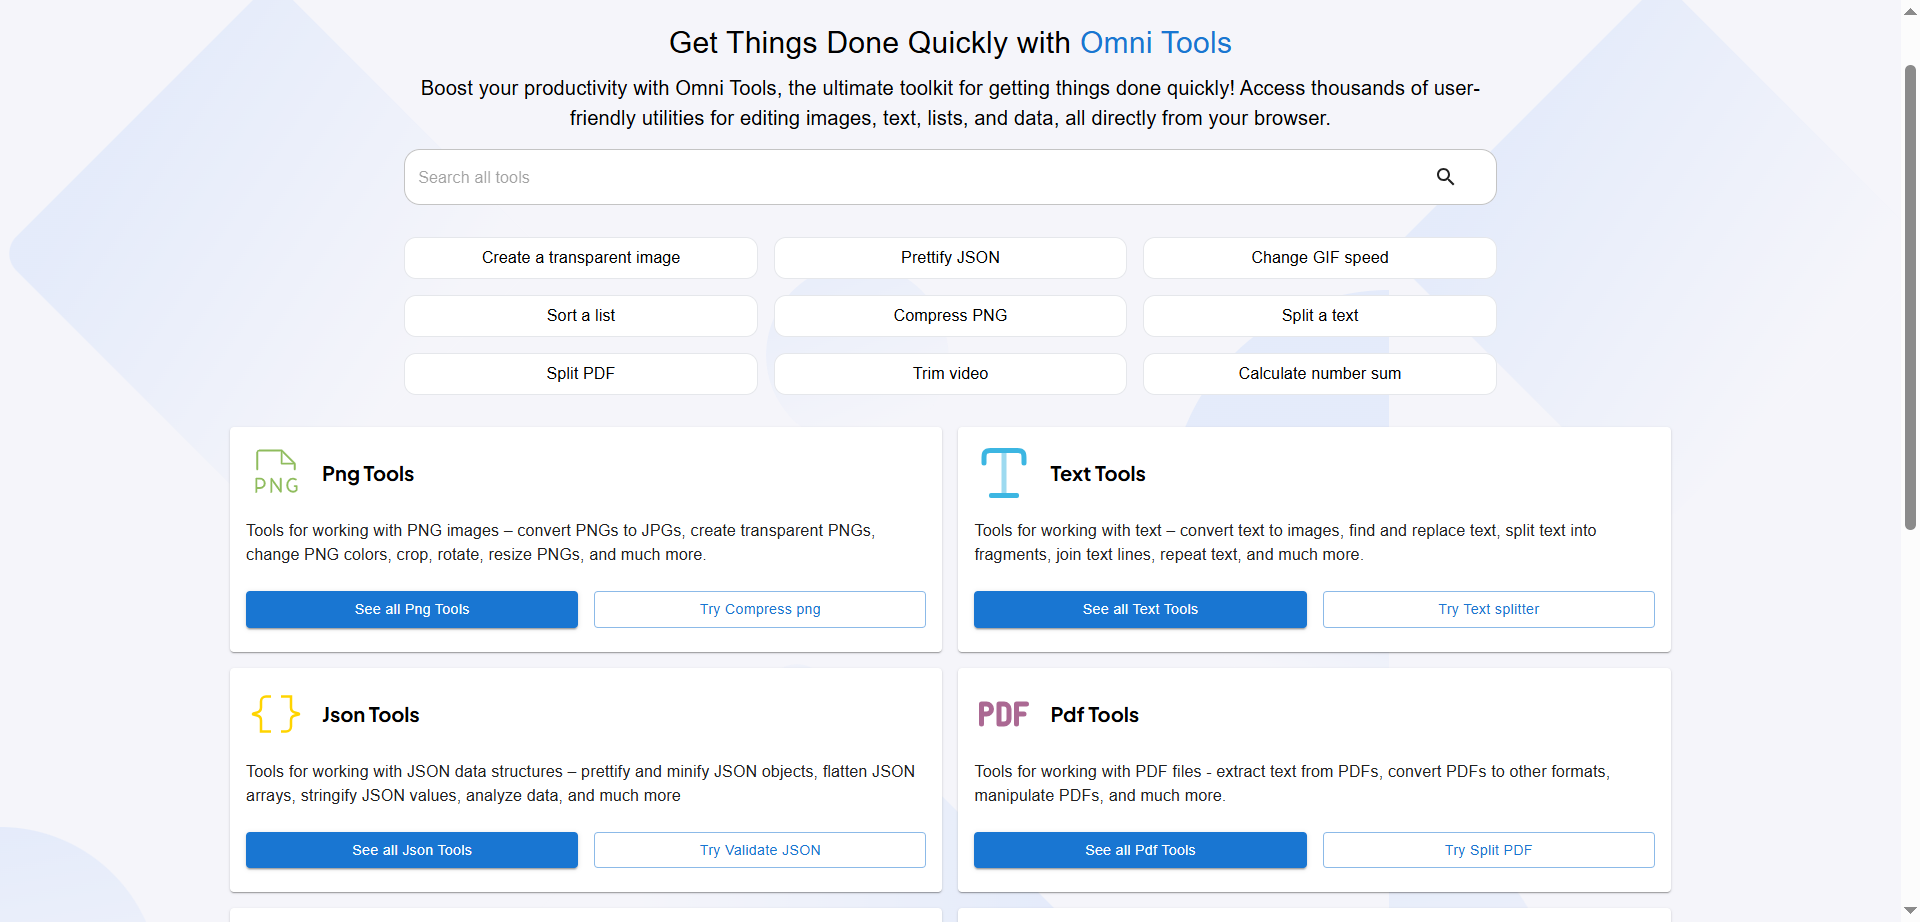
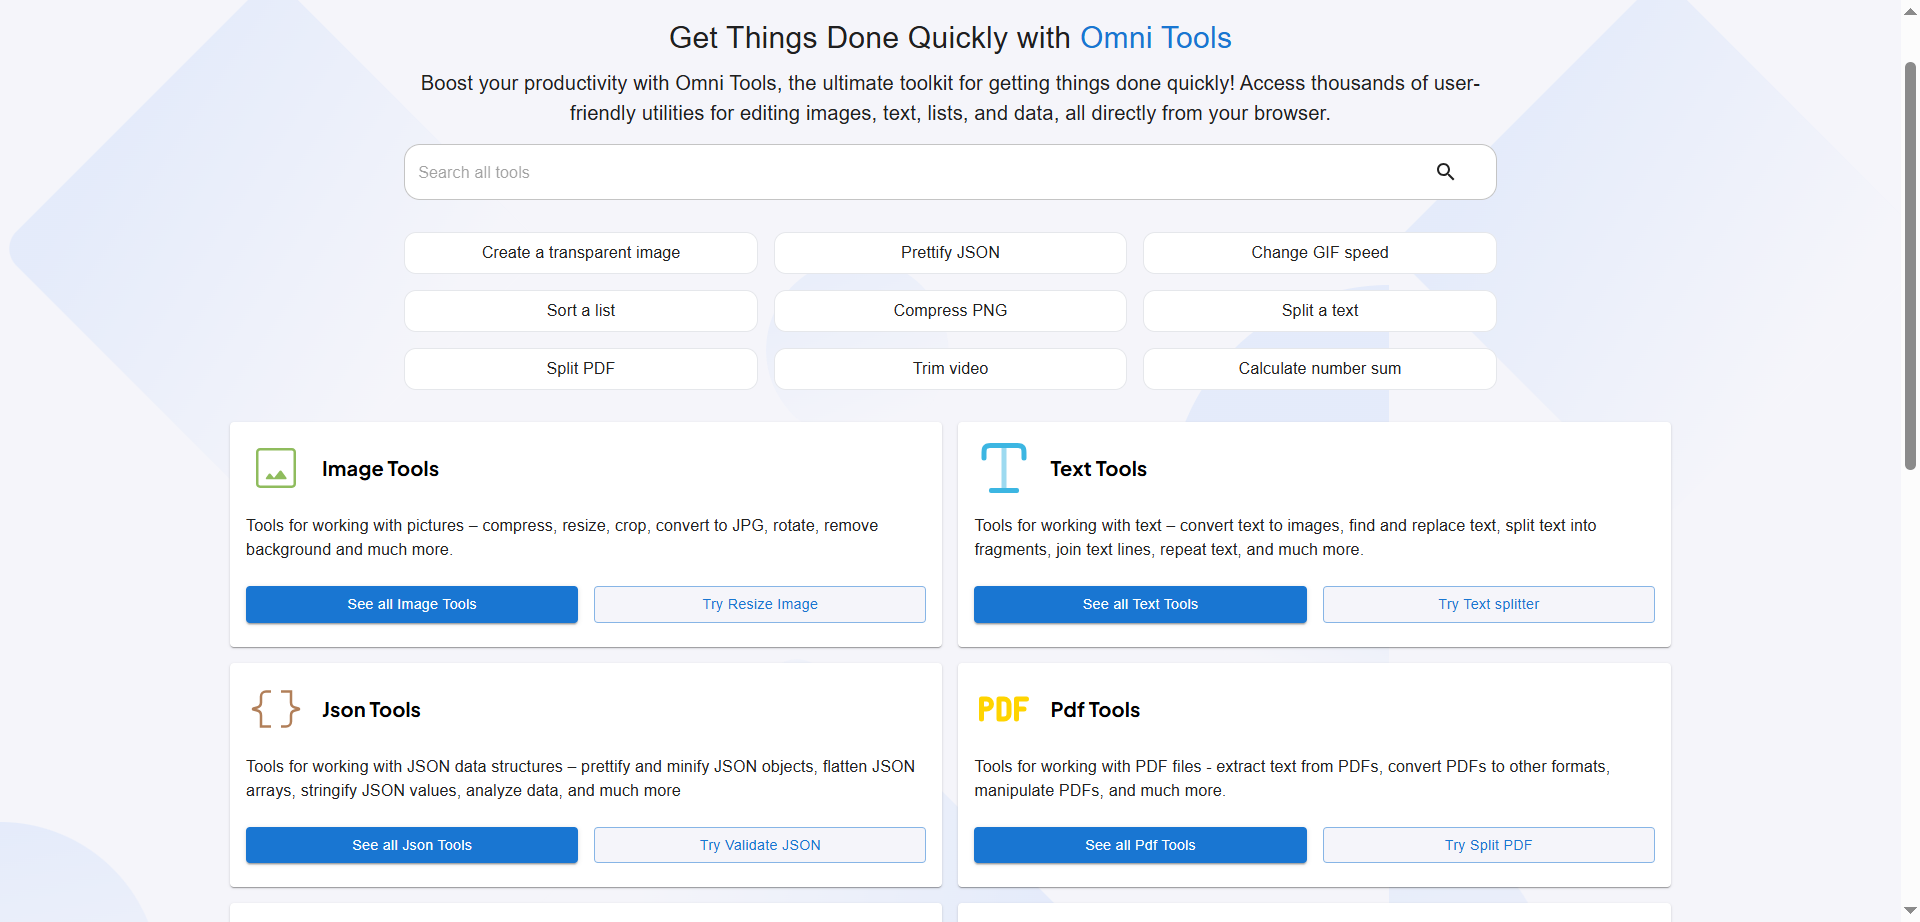
chore: readme img and fix broken link

diff --git a/src/components/Hero.tsx b/src/components/Hero.tsx
@@ -12,7 +12,7 @@ import { Icon } from '@iconify/react';
 const exampleTools: { label: string; url: string }[] = [
   {
     label: 'Create a transparent image',
-    url: '/png/create-transparent'
+    url: '/image-generic/create-transparent'
   },
   { label: 'Prettify JSON', url: '/json/prettify' },
   { label: 'Change GIF speed', url: '/gif/change-speed' },
